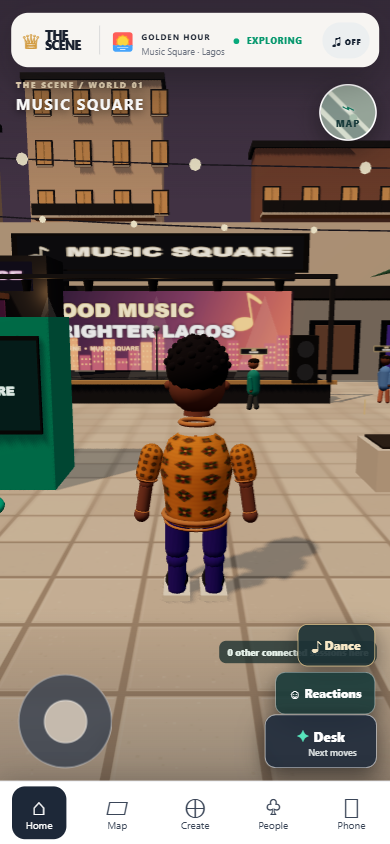
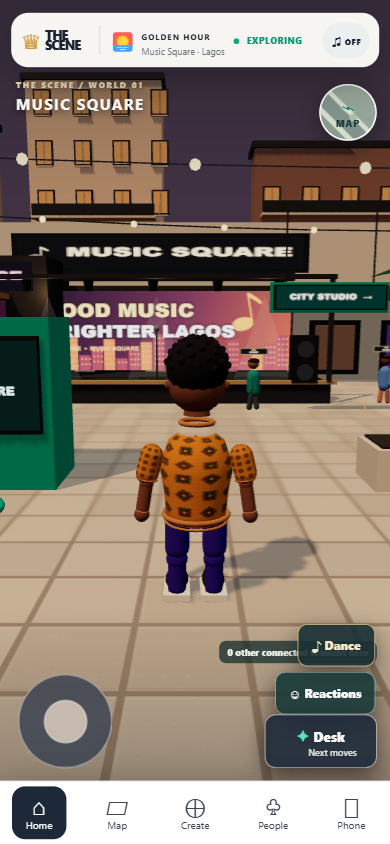
Add visible Studio wayfinding in Music Square

Changed region(s): [[0.6769, 0.2464, 1.0, 0.3697], [0.8, 0.4621, 1.0, 0.4929], [0.7077, 0.2464, 0.7385, 0.2773]]

diff --git a/app/src/world.ts b/app/src/world.ts
@@ -350,6 +350,13 @@ export function makeSquare() {
     for (let i = -2; i <= 2; i++) box(root, .12, .12, 1.82, brass, x + i * .96, 4.07, -9.1)
   }
   // A physical district guide remains useful even when the map sheet is closed.
+  // The studio direction stays readable from the spawn camera without inventing a travel time.
+  box(root, 3.65, .92, .16, mint, .15, 3.75, -5.2)
+  box(root, 3.47, .76, .18, black, .15, 3.75, -5.08)
+  sign(root, ['CITY STUDIO  →'], 3.35, .68, .15, 3.75, -4.96, { bg: '#153b36', ink: '#f1f2e7', size: 86 })
+  for (const x of [-1.2, 1.5]) {
+    cylinder(root, .025, .025, 2.2, charcoal, x, 5.25, -5.2, 6)
+  }
   cylinder(root, .075, .095, 3.2, black, 4, 1.6, 1.4, 8)
   box(root, 2.9, .72, .12, black, 4, 2.75, 1.4)
   sign(root, ['← RELEASE  ·  STUDIO →'], 2.78, .6, 4, 2.75, 1.48, { bg: '#183e39', ink: '#f6e9c9', size: 73 })

diff --git a/M0_PROGRESS.md b/M0_PROGRESS.md
@@ -509,3 +509,4 @@ Added an integration test that connects 20 real WebSocket test clients to an iso
 - Follow-up presentation slice: removed the local avatar's stage-obscuring name tag, kept other human players visibly identified, reduced NPC role plates, moved the Concierge off the spawn line, and staged four clearly labeled ambient NPCs on clear routes. The Concierge, kiosk, doors and other hotspots remain physically reachable; focused navigation and NPC route tests pass.
 - Collapsed social reactions behind a 42px touch control, with explicit expanded state; Dance stays one tap away. In headed Edge at 390 × 844 the reaction tray opened and closed and the default frame rendered without page errors (`docs/evidence/music-square-clean-mobile.png`).
 - Gave the open Desk a separate third-person camera framing. At phone size the avatar, kiosk and live stage remain visible above the Today panel (`docs/evidence/music-square-desk-mobile.png`), while closing Desk restores the closer exploration view.
+- Added a suspended City Studio arrow within the actual plaza, visible from spawn in both camera modes. It points toward the existing walkable Studio entrance and avoids made-up distance or travel-time claims.
